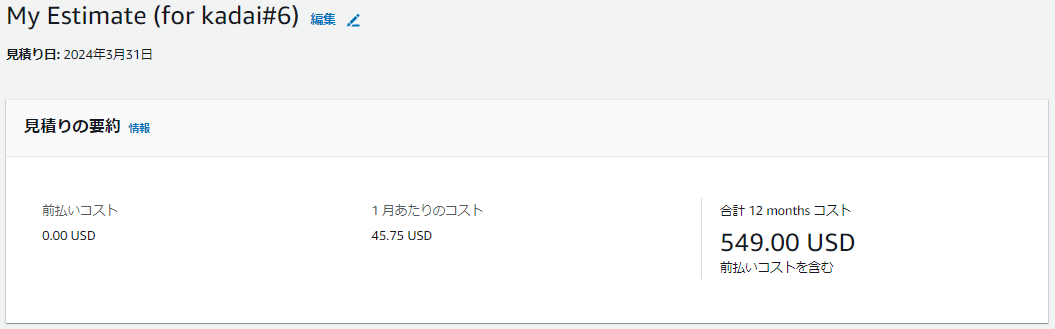
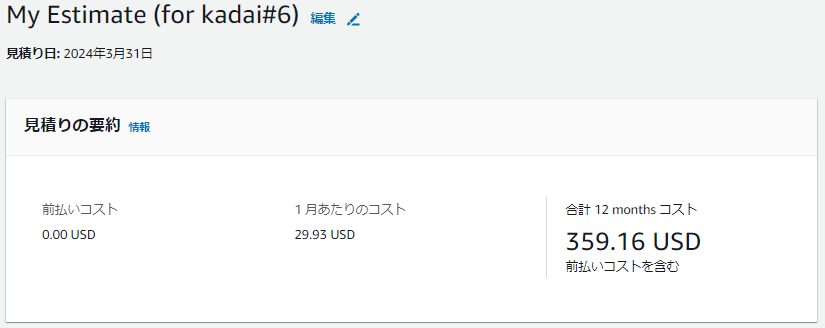
update pricing calculation

diff --git a/lecture07.md b/lecture07.md
@@ -21,7 +21,7 @@
 
 ### セキュリティ対策コスト
 
-- 上記で検討したACMおよびAWS WAFを追加したリソース内容の見積 [URL](https://calculator.aws/#/estimate?id=36de21e99e94661c41c26a017083b31cba572471)  
+- 上記で検討したACMおよびAWS WAFを追加したリソース内容の見積 [URL](https://calculator.aws/#/estimate?id=6aed1fe3d49e85d4c690ab8b53b593153bd8dc9c)  
   利用条件にもよるが、決して安い追加コストとはいえないと認識する。  
   
   ![図](images_lec7/cost_kadai7.PNG)  
@@ -30,7 +30,7 @@
   ![図](images_lec7/Security_added.PNG)  
 
 
-- （参考比較）課題5までに作成したリソース内容の見積（課題6として作成したもの）[URL](https://calculator.aws/#/estimate?id=0ae050b001df0e87b99bff18c4b37ed7f1043155)  
+- （参考比較）課題5までに作成したリソース内容の見積（課題6として作成したもの）[URL](https://calculator.aws/#/estimate?id=5f893e60f6ecd9d3c84182d08804b11c1d16bf51)  
   ![図](images_lec7/cost_kadai6.PNG)  
 
   図4：構成図（ACM・AWS WAF追加前）
